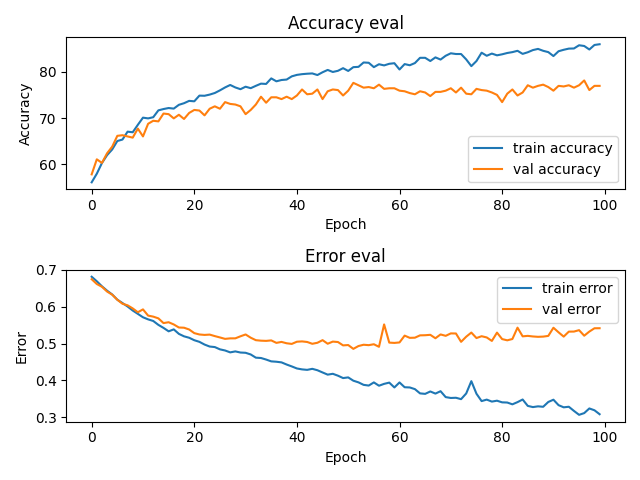
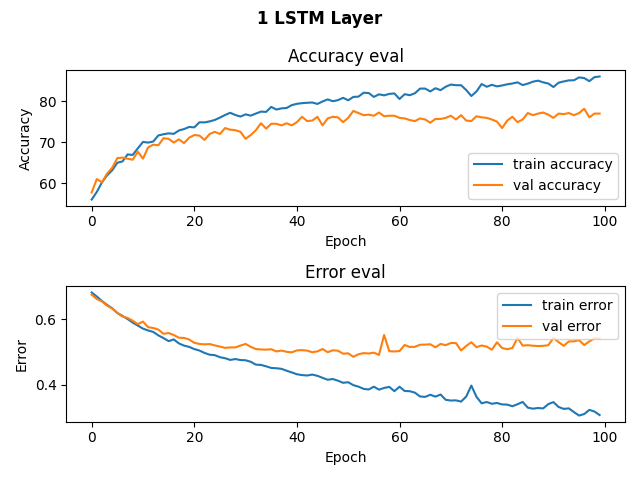
updated RNN graphs so that they have titles

diff --git a/RNN/Models/RNN_util.py b/RNN/Models/RNN_util.py
@@ -243,7 +243,7 @@ def test(model, test_loader, device):
     print(f'Test accuracy: {100 * correct // total} %')
 
 
-def plot_history(model, graph_path):
+def plot_history(title, model, graph_path):
     """
     Plot the models history of training/validation accuracies 
     and training/validation losses on separate graphs based on what is stored 
@@ -257,6 +257,8 @@ def plot_history(model, graph_path):
     """
 
     fig, axs = plt.subplots(2)
+
+    fig.suptitle(title, fontweight='heavy')
 
     # create accuracy sublpot
     axs[0].plot(model.training_info["train_accuracies"], label="train accuracy")
